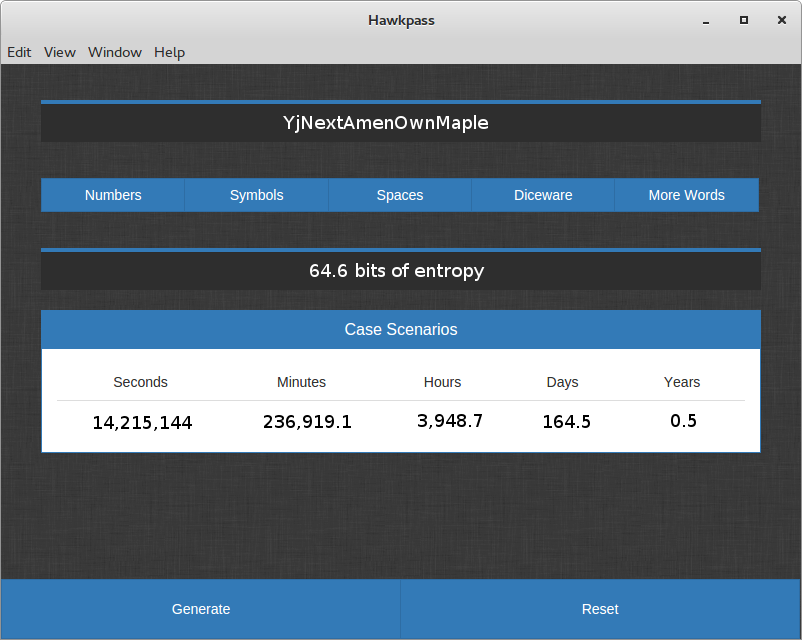
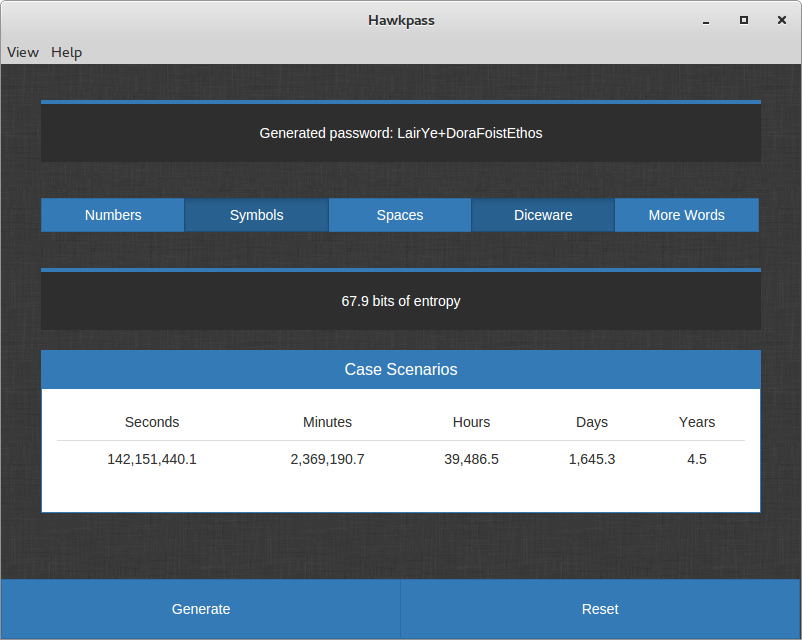
docs: changes to README

diff --git a/app/index.html b/app/index.html
@@ -14,7 +14,7 @@
     <script src="js/menu.js"></script>
     <script src="js/random.js"></script>
     <script src="js/wordlist.js"></script>
-    <script src="js/tesst.js"></script>
+    <script src="js/test.js"></script>
     <!-- End of JavaScript files -->
   </head>
   <body style="background-image: url('images/background.png');">
@@ -33,7 +33,7 @@
               <h4>0.0.1-Alpha</h4>
               <p>The source code is available on <a href="https://github.com/kalpetros/hawkpass"><i class="fa fa-github"></i> Github</a>.</p>
 				    	<p>Inspired by: <a href="http://world.std.com/~reinhold/diceware.html">Diceware</a> by <a href="http://world.std.com/~reinhold/">Arnold G. Reinhold</a>, <a href="https://github.com/fusionbox/mouseware">Mouseware</a> by <a href="https://github.com/fusionbox">Fusionbox</a>, <a href="https://xkcd.com/936/">XKCD</a></p>
-							<p><> by Petros Kalogiannakis</p>
+							<p><> by <a href="https://github.com/kalpetros">Petros Kalogiannakis</a></p>
             </div>
           </div>
         </div>
@@ -166,10 +166,10 @@
                 <tbody>
                   <tr>
                     <td class="one"></td>
-                    <td class="one"></td>
-                    <td class="one"></td>
-                    <td class="one"></td>
-                    <td class="one"></td>
+                    <td class="two"></td>
+                    <td class="three"></td>
+                    <td class="four"></td>
+                    <td class="five"></td>
                   </tr>
                 </tbody>
               </table>

diff --git a/app/js/test.js b/app/js/test.js
@@ -4,10 +4,14 @@ $(document).ready(function(){
     var x = Math.random();
     var y = Math.random();
     var result = x*100+y*100;
-    $('.password').append("Generated password: " + result);
+    $('.password').append("Generated password: " + "LairYe+DoraFoistEthos");
     $('.stats_box').show();
-    $('.bits_of_entropy').append(result.toFixed(2) + " bits of entropy");
-    $('.one').append(result.toFixed(0));
+    $('.bits_of_entropy').append("67.9" + " bits of entropy");
+    $('.one').append("142,151,440.1");
+    $('.two').append("2,369,190.7");
+    $('.three').append("39,486.5");
+    $('.four').append("1,645.3");
+    $('.five').append("4.5");
   })
   $('.reset').click(function() {
     $('.password').empty();

diff --git a/README.md b/README.md
@@ -1,14 +1,14 @@
-# Hawkpass Desktop
+![](logo.png)
+
+A simple cross-platform cryptographically secure random number generator based on entropy created by your mouse movements that generates easy to remember passwords based on the [Diceware](http://world.std.com/~reinhold/diceware.html) list.
+
+Hawkpass Desktop is the desktop version of the web app [Hawkpass](http://www.petroskal.com/hawkpass), and it is built on [Electron](https://github.com/atom/electron).
 
 [![Build Status](https://travis-ci.org/kalpetros/hawkpass-desktop.svg?branch=master)](https://travis-ci.org/kalpetros/hawkpass-desktop)
 
 ![](hawkpass.png)
 
-[Hawkpass](https://github.com/kalpetros/hawkpass) is a web app that generates random secure passwords based on the [Diceware](http://world.std.com/~reinhold/diceware.html) list.
-
-Hawkpass Desktop is the desktop version of this app, built on [Electron](https://github.com/atom/electron).
-
-## Build Hawkpass
+## Packaging Hawkpass
 
 Packaging Hawkpass for your platform can be done using [electron-packager](https://github.com/maxogden/electron-packager).
 
@@ -24,8 +24,8 @@ electron-packager <location> <name> <platform> <architecture> <version> <options
 | --- | --- |
 | location | location of your project  |
 | name | name of your project |
-| platform | which platform you want to build. Use `--all` to build for Windows, Mac and Linux |
-| architecture | which architecture you want to build. `--x86`, `--x64`, `--all` for both |
+| platform | for which platform you want to build. Use `--all` to build for Windows, Mac and Linux |
+| architecture | for which architecture you want to build. `--x86`, `--x64`, `--all` for both |
 | version | which electron version to use `--version` |
 | options | output location `--out`, icon `--icon` |
 
@@ -40,7 +40,7 @@ To simplify the process we can create the following script inside *package.json*
   "package": "electron-packager ./ Hawkpass --all --out ~/Projects/Hawkpass --version 0.36.8 --overwrite"
 }
 ```
-and then run the command below to start building:
+and then run the command below to start packaging:
 ```
 npm run-script package
 ```
